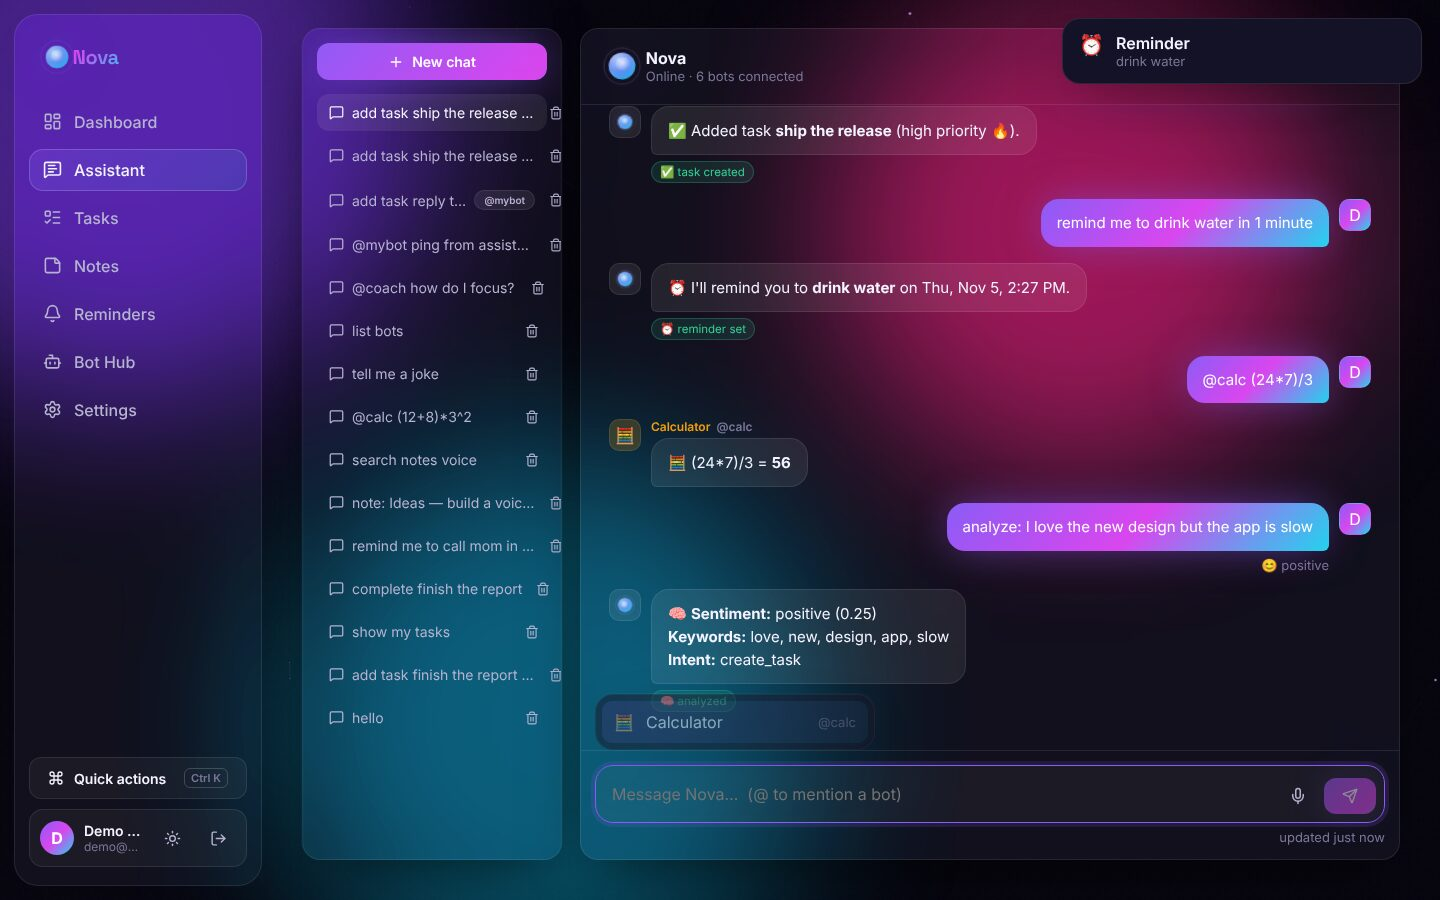
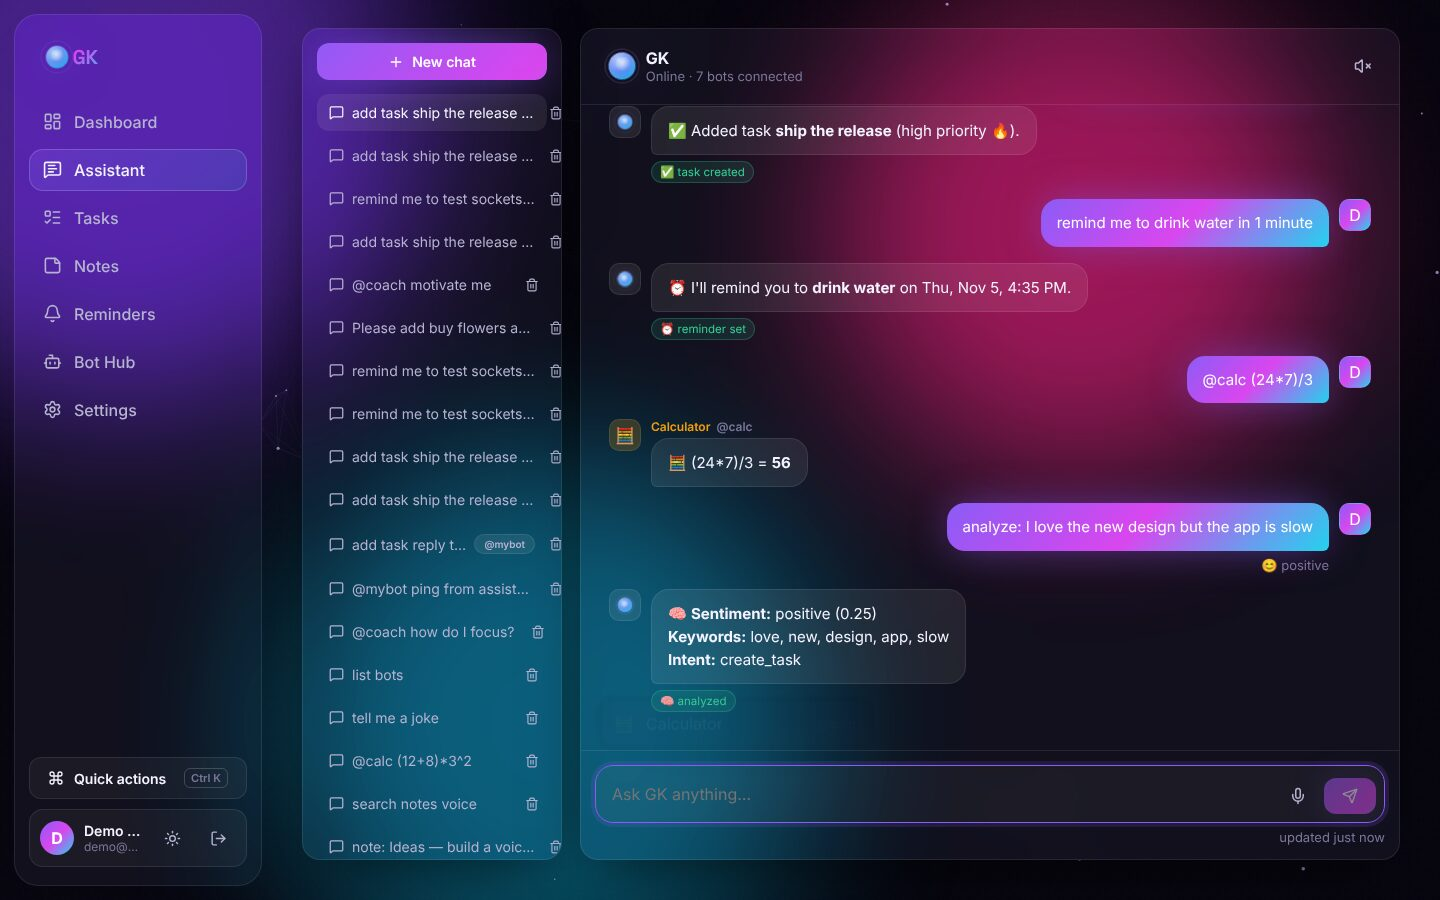
Rename the assistant from Nova to GK
Default assistant name, sidebar fallback, page title, docs and screenshots.

Claude-Session: https://claude.ai/code/session_01MRSKDUPUxgNqXQPEe2WnMe

diff --git a/client/index.html b/client/index.html
@@ -4,11 +4,11 @@
     <meta charset="UTF-8" />
     <link rel="icon" type="image/svg+xml" href="/favicon.svg" />
     <meta name="viewport" content="width=device-width, initial-scale=1.0" />
-    <meta name="description" content="Nova — your AI personal assistant with connected bots" />
+    <meta name="description" content="GK — your AI personal assistant with connected bots" />
     <link rel="preconnect" href="https://fonts.googleapis.com" />
     <link rel="preconnect" href="https://fonts.gstatic.com" crossorigin />
     <link href="https://fonts.googleapis.com/css2?family=Inter:wght@400;500;600;700&family=Space+Grotesk:wght@500;600;700&display=swap" rel="stylesheet" />
-    <title>Nova Assistant</title>
+    <title>GK Assistant</title>
   </head>
   <body>
     <div id="root"></div>

diff --git a/client/src/components/Layout.jsx b/client/src/components/Layout.jsx
@@ -30,7 +30,7 @@ export default function Layout() {
       <motion.aside className="sidebar" initial={{ x: -40, opacity: 0 }} animate={{ x: 0, opacity: 1 }} transition={{ type: 'spring', stiffness: 200, damping: 26 }}>
         <div className="brand">
           <AssistantOrb size={22} />
-          <h2 className="gradient-text" style={{ marginLeft: -14 }}>{user?.assistantName || 'Nova'}</h2>
+          <h2 className="gradient-text" style={{ marginLeft: -14 }}>{user?.assistantName || 'GK'}</h2>
         </div>
         {NAV.map(({ to, label, icon: Icon }) => (
           <NavLink key={to} to={to} end={to === '/'} className={({ isActive }) => `nav-item ${isActive ? 'active' : ''}`}>

diff --git a/server/src/models/User.js b/server/src/models/User.js
@@ -6,7 +6,7 @@ const userSchema = new mongoose.Schema(
     name: { type: String, required: true, trim: true },
     email: { type: String, required: true, unique: true, lowercase: true, trim: true },
     password: { type: String, required: true, minlength: 6, select: false },
-    assistantName: { type: String, default: 'Nova' },
+    assistantName: { type: String, default: 'GK' },
     preferences: {
       theme: { type: String, enum: ['dark', 'light'], default: 'dark' },
       voice: { type: Boolean, default: true },

diff --git a/client/src/index.css b/client/src/index.css
@@ -1,5 +1,5 @@
 /* ==========================================================================
-   Nova design system — glassmorphism, aurora gradients, motion-friendly
+   GK design system — glassmorphism, aurora gradients, motion-friendly
    ========================================================================== */
 :root,
 [data-theme='dark'] {

diff --git a/docs/BOT_INTEGRATION.md b/docs/BOT_INTEGRATION.md
@@ -1,10 +1,10 @@
 # 🤖 Bot Integration Guide
 
-This guide covers how to **create bots** inside Nova and how to **connect bots you already have**, so everything runs through one personal assistant.
+This guide covers how to **create bots** inside GK and how to **connect bots you already have**, so everything runs through one personal assistant.
 
 ```
-   You ──chat──▶ Nova ──@mention / trigger / call_bot──▶ Your bots   (outbound)
-   Your bots ──POST /integrations/inbound/:botId──▶ Nova            (inbound)
+   You ──chat──▶ GK ──@mention / trigger / call_bot──▶ Your bots   (outbound)
+   Your bots ──POST /integrations/inbound/:botId──▶ GK            (inbound)
 ```
 
 ---
@@ -88,7 +88,7 @@ Working examples: [`examples/node-webhook-bot/server.js`](../examples/node-webho
 1. In Telegram, message **@BotFather** → `/newbot` → copy the token.
 2. Go to Bot Hub → Create bot → **Telegram**, paste the token, and optionally enable **"Deliver my reminders through this bot"**.
 3. Send `/start` to your bot. That chat is now **linked** to your assistant.
-4. Chat with Nova from Telegram: "add task buy milk", "@weather in Chennai"… Replies come back to Telegram, and the conversation also appears in the web app.
+4. Chat with GK from Telegram: "add task buy milk", "@weather in Chennai"… Replies come back to Telegram, and the conversation also appears in the web app.
 
 **Delivery mode:**
 - `PUBLIC_API_URL` starts with `https://`: Telegram **webhooks** are registered automatically and verified with a secret token.

diff --git a/README.md b/README.md
@@ -1,6 +1,6 @@
-# ✨ Nova — Personal Assistant (end to end)
+# ✨ GK — Personal Assistant (end to end)
 
-Nova is a full-stack personal assistant. It manages your **tasks, notes and reminders**, and it acts as a **hub for all your bots**: you can create bots, connect bots you already have (Telegram, Discord, Slack, or any webhook bot you've built), and they all work through one assistant.
+GK is a full-stack personal assistant. It manages your **tasks, notes and reminders**, and it acts as a **hub for all your bots**: you can create bots, connect bots you already have (Telegram, Discord, Slack, or any webhook bot you've built), and they all work through one assistant.
 
 | Layer | Tech |
 | --- | --- |

diff --git a/client/README.md b/client/README.md
@@ -1,4 +1,4 @@
-# Nova client
+# GK client
 
 React 19 + Vite + Framer Motion UI for the personal assistant. See the [root README](../README.md).
 
